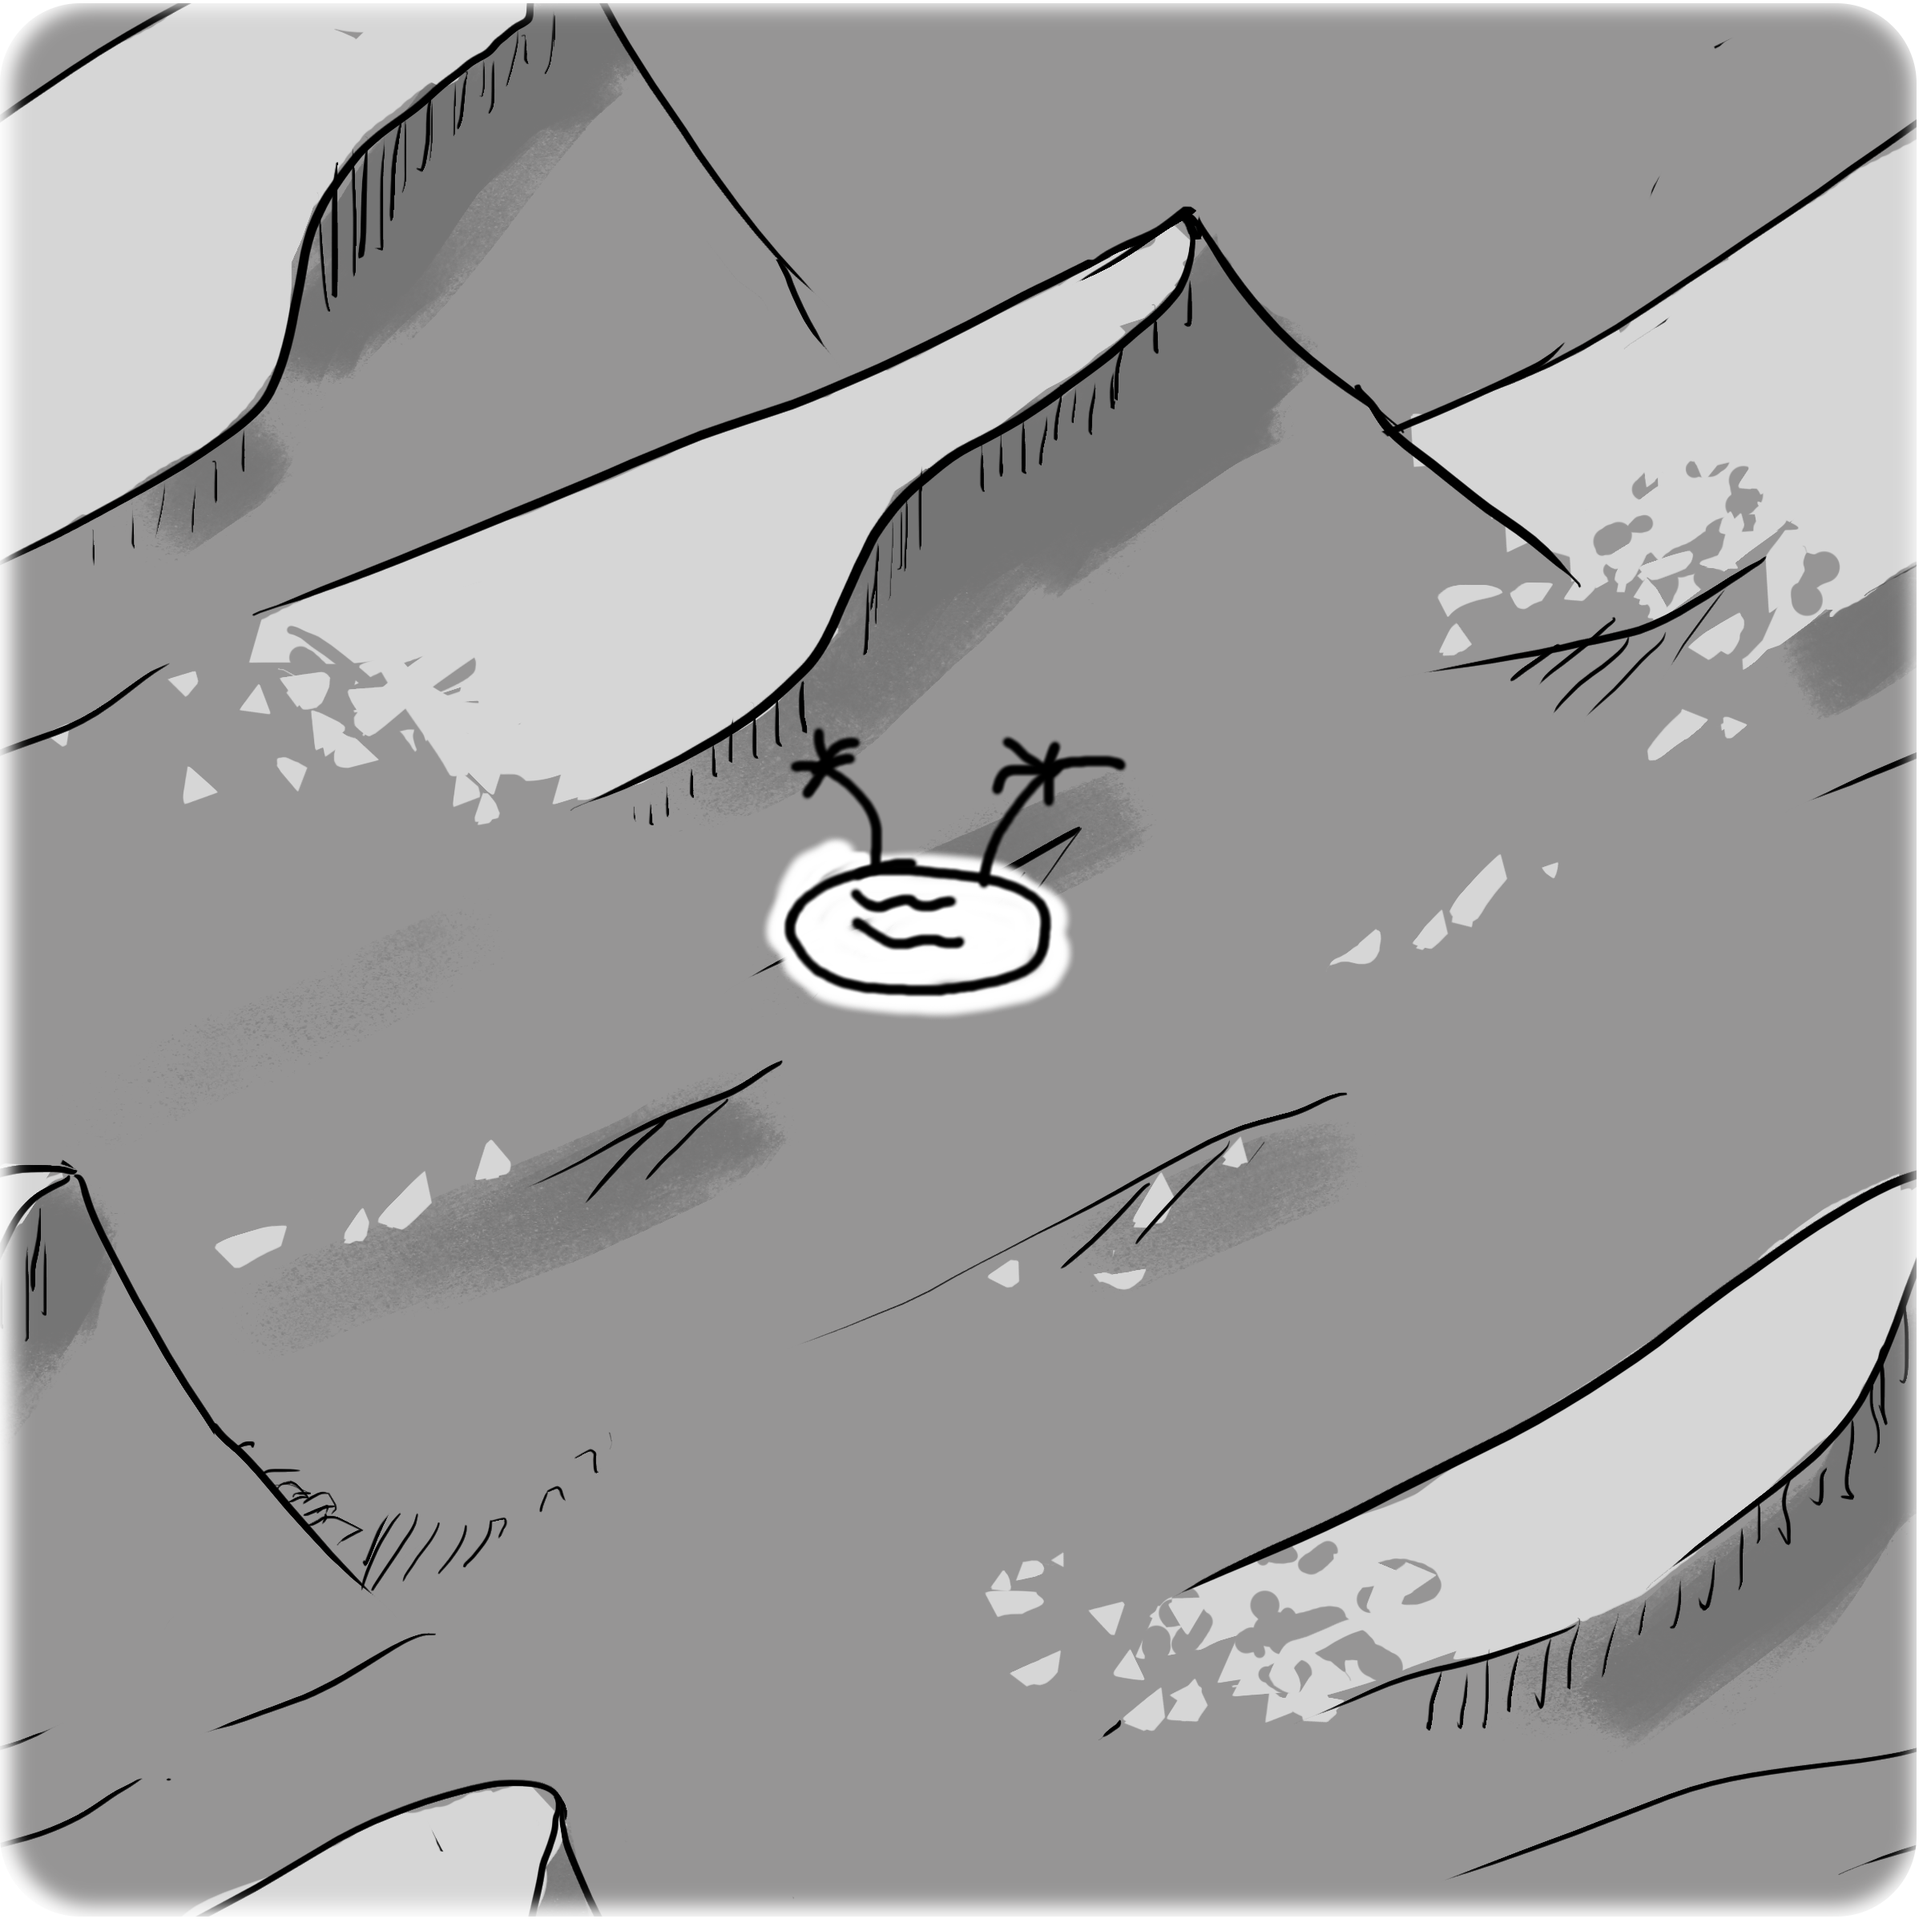
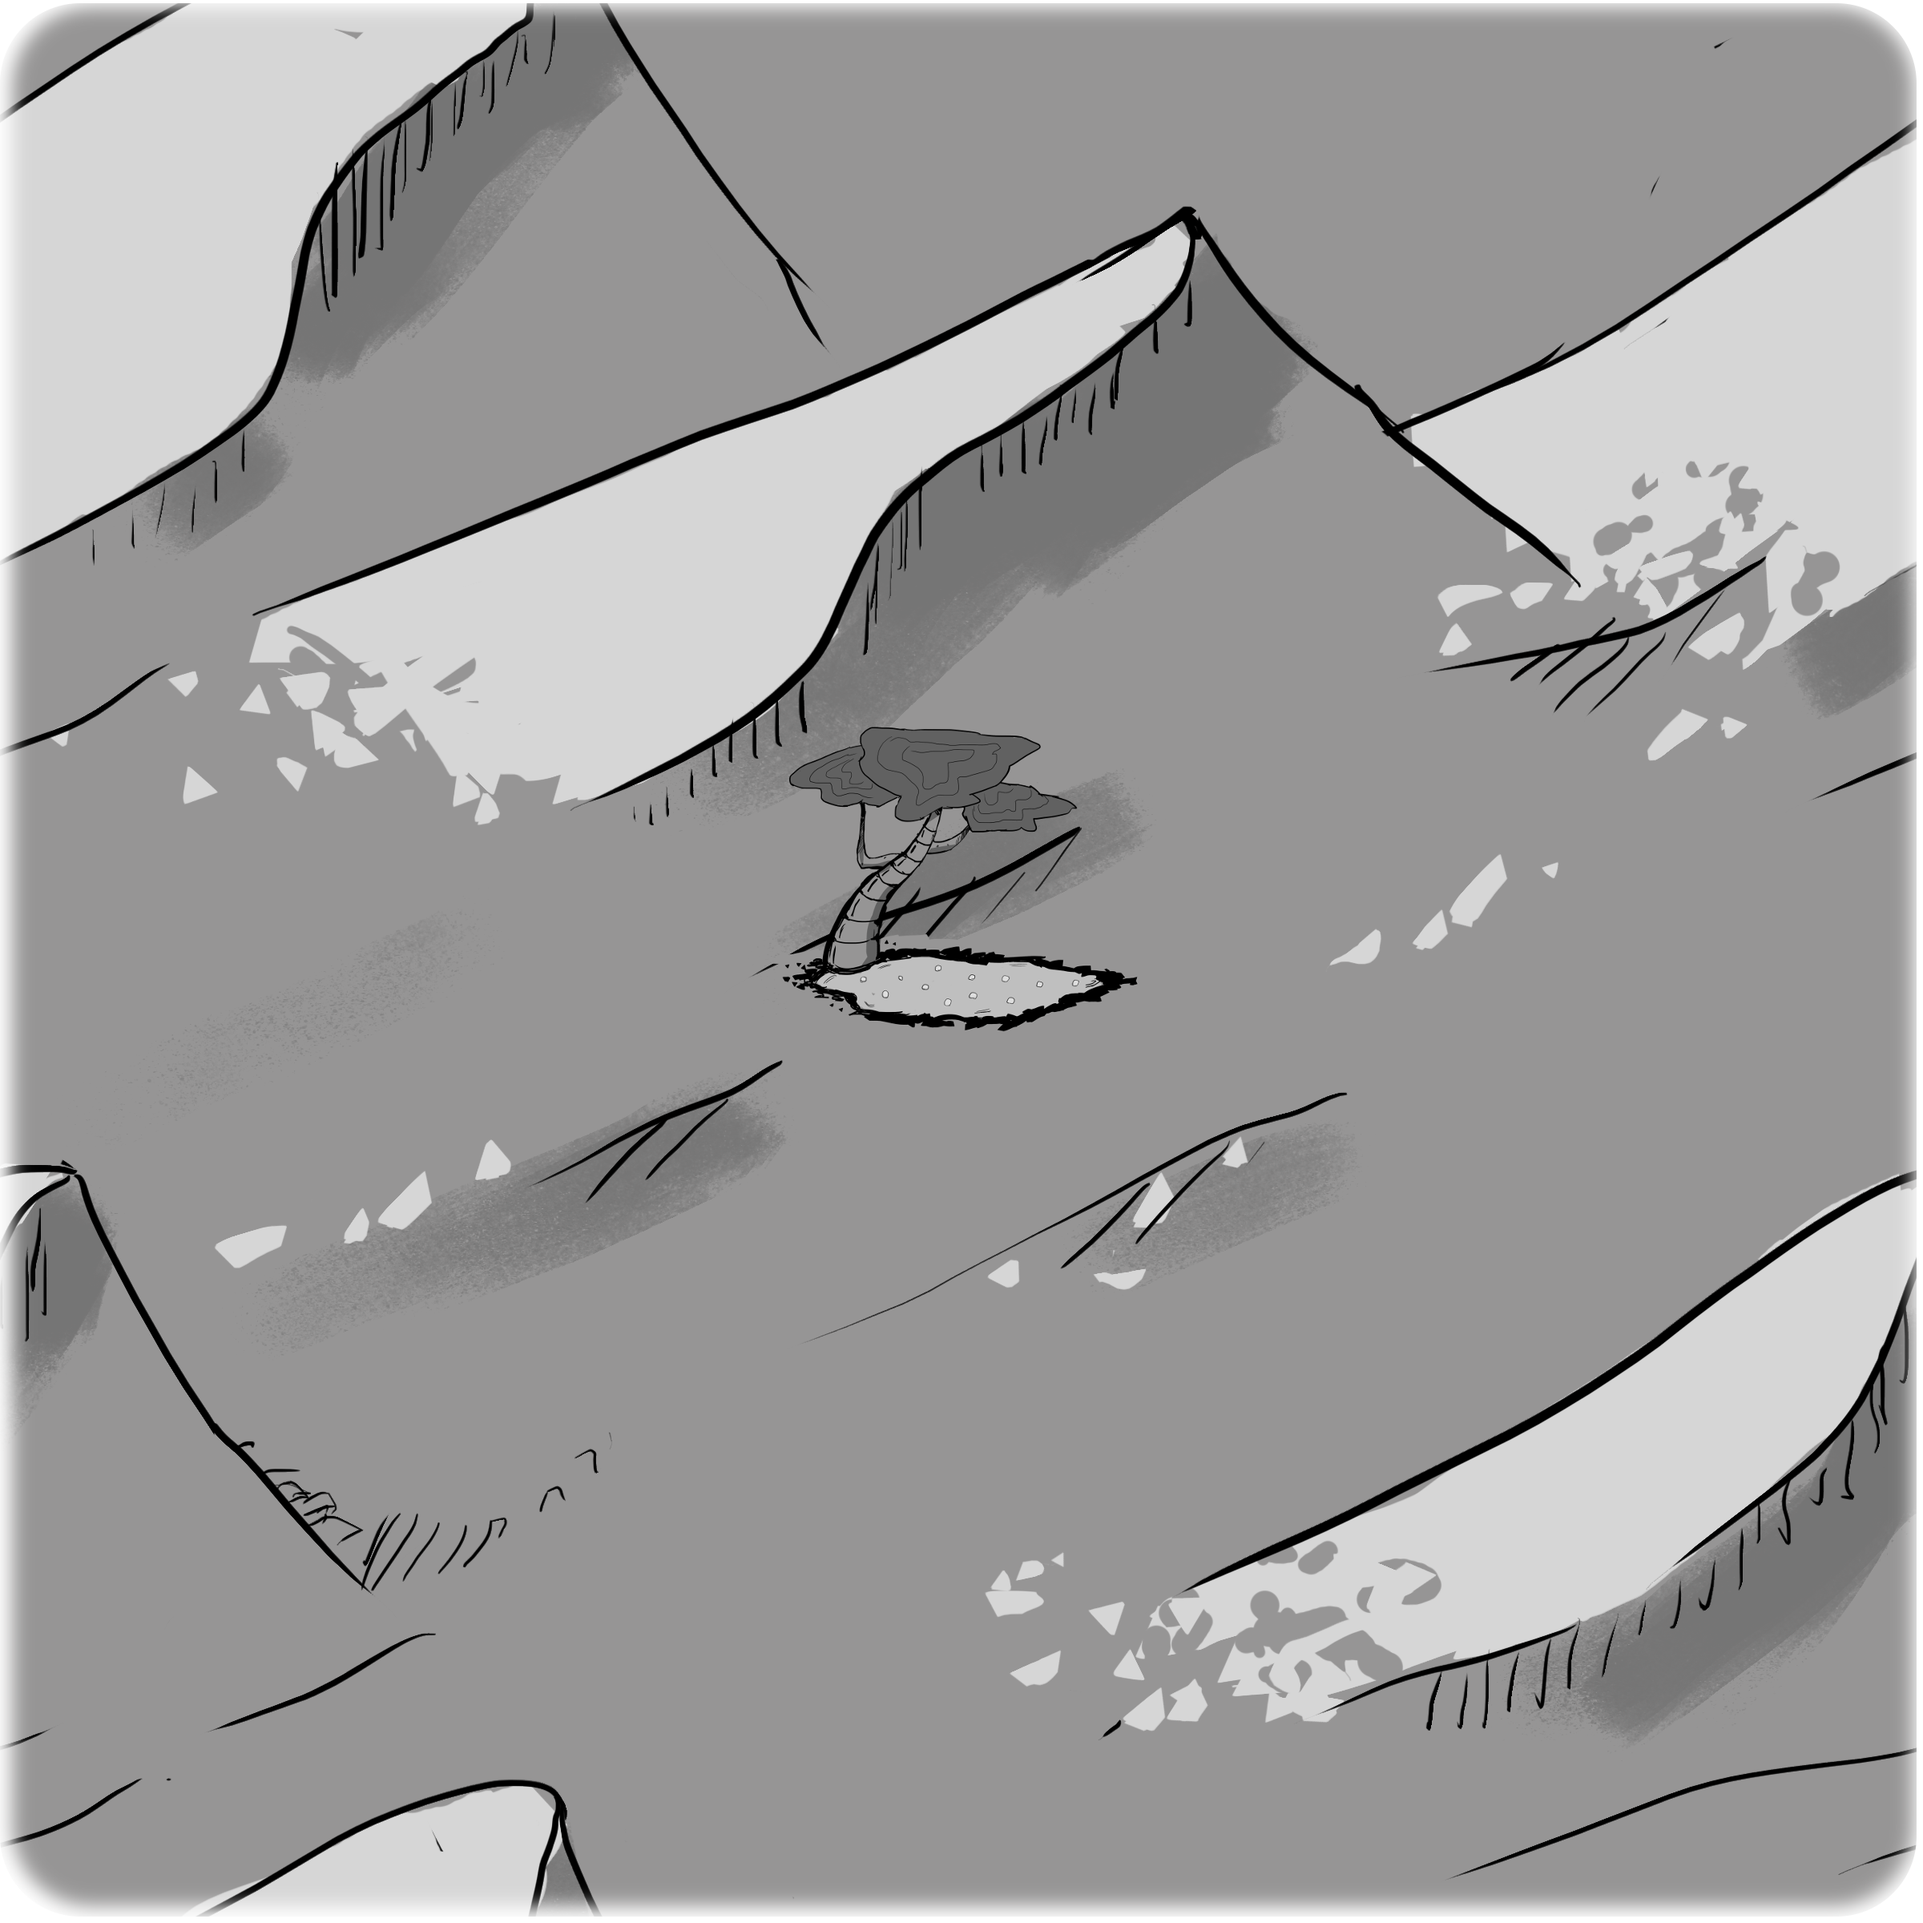
Tweaks for oasis to be larger; new oasis gfx.

Changed region(s): [[0.375, 0.375, 0.5938, 0.5312]]

diff --git a/src/main/java/com/platymuus/ggj15/GameOverScene.java b/src/main/java/com/platymuus/ggj15/GameOverScene.java
@@ -30,10 +30,10 @@ public class GameOverScene extends Scene {
         titleText = new Text("You've met " + fate + " fate...", Resources.FONT_TITLE, 60);
         center(titleText);
 
-        if(goodEnd){
-        	beginText = new Text("Congratulations!", Resources.FONT_TEXT, 20);
-        }else{
-        	beginText = new Text("but maybe there was something else you could have done?", Resources.FONT_TEXT, 20);
+        if (goodEnd) {
+            beginText = new Text("Congratulations!", Resources.FONT_TEXT, 20);
+        } else {
+            beginText = new Text("but maybe there was something else you could have done?", Resources.FONT_TEXT, 20);
         }
         beginText.setPosition(0, -60);
         center(beginText);

diff --git a/src/main/java/com/platymuus/ggj15/game/Player.java b/src/main/java/com/platymuus/ggj15/game/Player.java
@@ -72,10 +72,11 @@ public class Player extends Entity {
         float dist = 0;
         for (Entity entity : world.entities) {
             if (entity instanceof Interactable) {
+                Interactable inter = (Interactable) entity;
                 Vector2f delta = Vector2f.sub(entity.location, location);
                 float thisDist = Hacks.dist(delta);
-                if (thisDist < 50 && (thisDist < dist || interactable == null)) {
-                    interactable = ((Interactable) entity);
+                if (thisDist < inter.getInteractZone() && (thisDist < dist || interactable == null)) {
+                    interactable = inter;
                     dist = thisDist;
                 }
             }

diff --git a/src/main/java/com/platymuus/ggj15/game/Control.java b/src/main/java/com/platymuus/ggj15/game/Control.java
@@ -17,8 +17,8 @@ public enum Control {
     //
     PAUSE(Keyboard.Key.ESCAPE, XboxButton.START),
     // cheats
-    ZOOM_IN(Keyboard.Key.ADD, XboxButton.LB),
-    ZOOM_OUT(Keyboard.Key.SUBTRACT, XboxButton.RB),
+    ZOOM_IN(Keyboard.Key.EQUAL, XboxButton.LB),
+    ZOOM_OUT(Keyboard.Key.DASH, XboxButton.RB),
     RESTART(Keyboard.Key.F1, XboxButton.BACK),
     GO_FAST(Keyboard.Key.LSHIFT, XboxButton.X),
     // movement

diff --git a/src/main/java/com/platymuus/ggj15/game/Oasis.java b/src/main/java/com/platymuus/ggj15/game/Oasis.java
@@ -37,6 +37,11 @@ public class Oasis extends Interactable {
     }
 
     @Override
+    public float getInteractZone() {
+        return 120;
+    }
+
+    @Override
     public void update() {
         /*boolean successJ = false, successP = false;
         for (Follower f : world.getPlayer().getFollowers()) {

diff --git a/src/main/java/com/platymuus/ggj15/game/Interactable.java b/src/main/java/com/platymuus/ggj15/game/Interactable.java
@@ -31,6 +31,10 @@ public abstract class Interactable extends Entity {
         return "";
     }
 
+    public float getInteractZone() {
+        return 50;
+    }
+
     public void setActive(boolean active) {
         this.active = active;
         if (active) {
